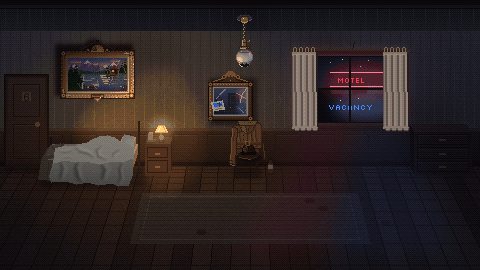
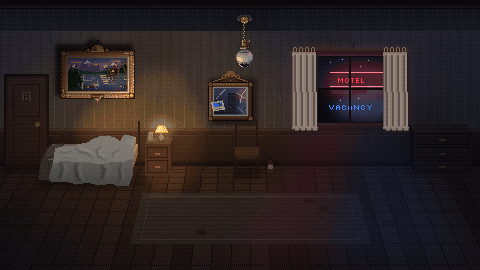
First Interlude: Agatha walks into the cell; no coat on the motel chair
Agatha's night visit spoke from an off-screen voice: she is now an actor who comes
in at the door, talks by the bed and walks out. The interlude motel background no
longer paints Micah's coat and hat on the chair, and Eleanor's chair line fits.

Changed region(s): [[0.4688, 0.4444, 0.5625, 0.6222]]

diff --git a/scripts/Rooms/ConventCell.cs b/scripts/Rooms/ConventCell.cs
@@ -16,6 +16,9 @@ public partial class ConventCell : Room
 
     private static readonly Color Night = new(0.5f, 0.56f, 0.78f);
 
+    /// <summary>Agatha's night visit: she comes in at the door and stops a step short of Eleanor at the bed.</summary>
+    private static readonly Vector2 AgathaDoor = new(92, 228), AgathaByTheBed = new(238, 222);
+
     protected override void OnRefresh() => Modulate = Interlude ? Night : Colors.White;
 
     public override async Task OnEnter(string entry)
@@ -110,7 +113,21 @@ public partial class ConventCell : Room
                 await Wait(0.6);
                 await Say("nun", "*Knock, knock*");
                 await Game.Hud.Fade(0, 0.6);
+                var agatha = FindActor("nun");
+                if (agatha != null)
+                {
+                    agatha.Position = AgathaDoor;
+                    agatha.Visible = true;
+                    await agatha.MoveTo(AgathaByTheBed, 32);
+                    agatha.FaceLeft(false);
+                    Player.FaceTowards(agatha.Position);
+                }
                 await Talk("interlude_agatha_night");
+                if (agatha != null)
+                {
+                    await agatha.MoveTo(AgathaDoor, 44);
+                    agatha.Visible = false;
+                }
                 await Game.Hud.Fade(1, 1.2);
                 Game.Hud.ShowCaption("The next morning");
                 await Wait(1.6);

diff --git a/scripts/Debug/AutoPlay/AutoPlay.Act2.cs b/scripts/Debug/AutoPlay/AutoPlay.Act2.cs
@@ -79,7 +79,12 @@ public partial class AutoPlay
         Check(game.Room?.Name == "ConventCell", "to her cell");
         var prefer = _prefer;
         _prefer = new[] { "(Indulge her.)" };
-        await game.Perform(Verb.Hand, "bed");
+        var night = game.Perform(Verb.Hand, "bed");
+        await Until(() => game.Hud.SpeechVisible && game.Hud.SpeechText.Contains("You're awake"));
+        Check(game.Room?.FindActor("nun") is { Visible: true } agatha && agatha.Position.X > 200,
+            "Agatha is in the cell, by the bed, while she talks");
+        await Shot("interlude_agatha_night");
+        await night;
         await WaitIdle(game);
         _prefer = prefer;
         Check(Offered("interlude_agatha_night", "(Refuse her.)") && !gs.HasFlag(Endings.RefusedAbbess),

diff --git a/scripts/Rooms/MotelNight.cs b/scripts/Rooms/MotelNight.cs
@@ -91,7 +91,7 @@ public partial class MotelNight : Room
                 await Say("If I lie down, I'll miss him. If he comes at all.");
                 return true;
             case ("chair", Verb.Look or Verb.Hand):
-                await Say("My coat, over the back of the chair. Ready to go, the way I like it.");
+                await Say("An empty chair. I'd sit, but from there I can't see the road.");
                 return true;
             case ("door", Verb.Walk or Verb.Hand):
                 await Say("Not yet. First I want to see who comes up that road.");

diff --git a/tools/art/motel.py b/tools/art/motel.py
@@ -998,7 +998,8 @@ def paint_night(rails=False, empty=False, kicked=False):
     bed_night(img, rails=rails)
     nightstand_night(img)
     chair(img)
-    clothes(img)
+    if not empty:  # in the interludes Micah has gone, and his coat and hat with him
+        clothes(img)
     dresser(img, night=True)
     bottle(img)
     img = relight_night(img)

diff --git a/Walkthrough.md b/Walkthrough.md
@@ -256,8 +256,9 @@ Micah's things are stashed and come back when the interlude ends, and none of he
    sacramental wine and sends her to the convent. Sal stays out of her way: the doorman's interception is off.
 3. **Convent corridor, arrival.** Sister Agatha (the Mother Superior) calls her "another Jezebel from that
    hideous Club". Eleanor's replies (the Club, the old man, what she wants) are remembered for the night.
-4. **Convent cell, that night.** Agatha comes to the cell and talks round and round, trying to make Eleanor admit
-   that she wants something impure from her, while it is the other way around. The choice is saved:
+4. **Convent cell, that night.** After a knock, Agatha comes into the cell and talks round and round, trying to make Eleanor admit
+   that she wants something impure from her, while it is the other way around. She walks out again before the
+   morning. The choice is saved:
    - **Refuse**: Agatha leaves, offended (`eleanor_refused_abbess`).
    - **Indulge**: at the last moment Agatha turns back, cursing Eleanor for a demon. Nothing is shown.
    Eleanor leaves the convent the next morning.
@@ -273,7 +274,7 @@ Micah's things are stashed and come back when the interlude ends, and none of he
   - Join the flower and the box, then use the packed box on the closet: it goes in the safe, locked.
   - Wrong joins and wrong items on the closet get a hint in her voice. The drawer, the call and the door keep
     their order.
-5. **The motel room.** She takes a room in sight of the convent (the motel with an empty bed) and watches from the
+5. **The motel room.** She takes a room in sight of the convent (the motel with an empty bed and a bare chair) and watches from the
    window. She sees Micah arrive at the convent door; while he is inside, she puts on her coat and goes to wait
    on the road, where he finds her. Fade to black, then Micah's office.
 
